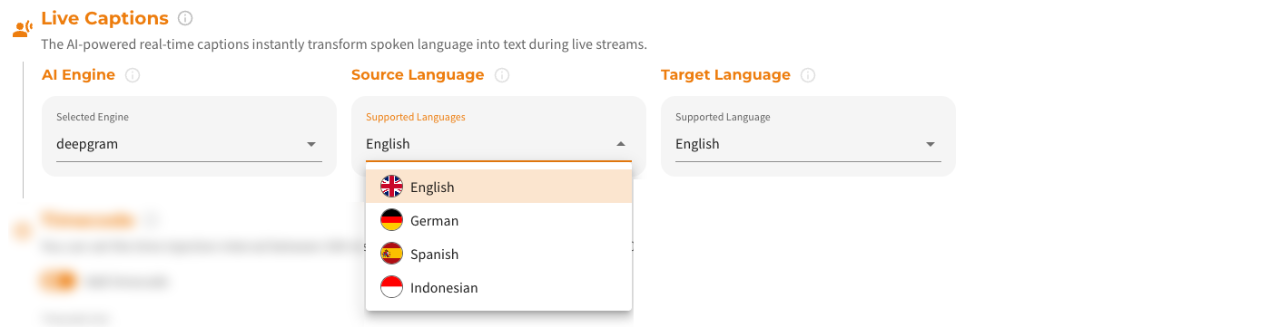
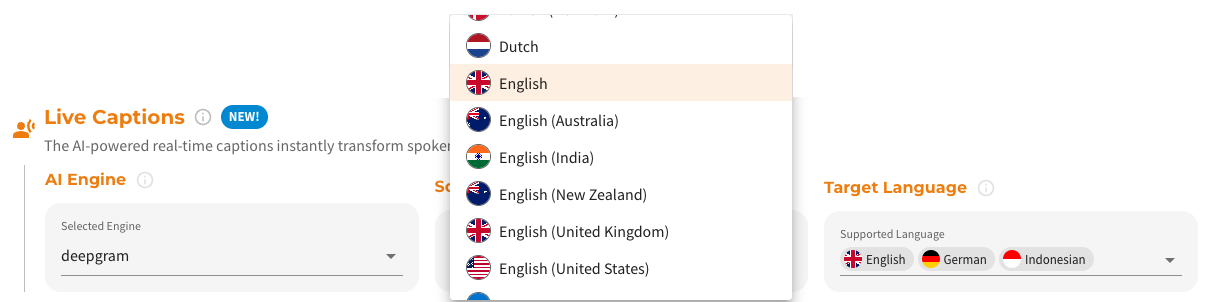
Adding Live Captions Dashboard

diff --git a/docs/dashboard/live_captions.md b/docs/dashboard/live_captions.md
@@ -4,3 +4,119 @@ title: Live Captions
 sidebar_label: Live Captions
 ---
 
+**Live Captions** convert spoken audio into readable text in real time. This feature improves accessibility and keeps viewers engaged, especially for streams with spoken content, in sound-off environments, or for users who are hard of hearing.
+
+Through the **nanoStream Cloud Dashboard**, you can easily set up, manage, and integrate Live Captions into your playback environment. This guide explains how to enable, configure, and use Live Captions from within the dashboard.
+
+:::warning Prerequisites
+To make use of **Live Captions**, it must be explicitly enabled for your organization. Activation may be subject to additional pricing or service terms.
+
+You can verify whether this feature is available by navigating to [dashboard.nanostream.cloud/organisation](https://dashboard.nanostream.cloud/organisation) in your dashboard.  
+In the **[Enabled Packages](./organization_overview#enabled-packages)** section, locate the entry for `Live Captions`. If it shows **Upgrade needed**, please contact us.
+
+![Screenshot: Enabled Packages](../assets/dashboard/enabled-packages.png)  
+
+To activate `Live Captions` or learn more about available plans, feel free to reach out via [nanocosmos.net/contact](https://www.nanocosmos.net/contact). We're happy to assist you in finding the best setup for your use case.
+:::
+
+:::info Live Caption Security Requirements
+Live captions are only available for **secure playback**. Therefore, by enabling `live captions`, you will also need to enable the `secure` feature. Please reach out to our sales team via [nanocosmos.net/contact](https://www.nanocosmos.net/contact) or by email at sales(at)nanocosmos.net if you have any questions. \
+To learn more about secure playback, visit the dedicated article [Secure Playback (H5Live)](/docs/cloud/security#secure-playback-h5live).
+:::
+
+## Add Live Captions to a New Stream
+
+When creating a new stream in the dashboard, live captions can be configured directly.
+
+![Screenshot: Adding live captions during stream creation](../assets/dashboard/create-add-captions.png)
+*Screenshot: Adding live captions during stream creation*
+
+First, select the desired live caption engine. Then specify the language of the audio source, which is the language spoken during the stream. You can then select one or more target languages in which the live captions should be displayed; engines that support translations enable simultaneous output in multiple languages.\
+Once the engine and languages are configured, save your settings. From that point, Live Captions will automatically activate as soon as the stream goes live, with the first lines typically appearing within **5–7 seconds**.
+
+:::info Learn more about Live Captions
+For a deeper understanding of Live Captions, including how they work, supported ASR engines, and language options, you can explore the following resources:
+
+- **How Live Captions Work**:  Detailed explanation of the real-time caption generation process and low-latency delivery. [Read more →](/docs/cloud/live_captions#how-it-works)
+
+- **Supported ASR Engines & Languages**: Overview of available engines (Deepgram, Whisper) and the full list of source and target languages, including regional variants. [Read more →](/docs/cloud/live_captions#asr-engines-and-languages)
+
+- **Managing Live Captions via API**: Learn how to control captions programmatically using the bintu API, including adding, editing, and removing captions. [Read more →](/docs/cloud/live_captions#managing-live-captions)
+:::
+
+
+## Overview of Live Captions Setup
+
+After creating a stream, you can access **Live Captions** playout and code snippets in several dashboard locations:
+
+- **Stream Overview:** [dashboard.nanostream.cloud/stream/YOUR-STREAM-ID](https://dashboard.nanostream.cloud/stream/YOUR-STREAM-ID)
+- **New Stream Instructions:** [dashboard.nanostream.cloud/stream/new/YOUR-STREAM-ID](https://dashboard.nanostream.cloud/stream/new/YOUR-STREAM-ID)
+- **Playout Overview:** [dashboard.nanostream.cloud/playout/YOUR-STREAM-ID](https://dashboard.nanostream.cloud/playout/YOUR-STREAM-ID)
+- **Webcaster Overview:** [dashboard.nanostream.cloud/webcaster/YOUR-STREAM-ID](https://dashboard.nanostream.cloud/webcaster/YOUR-STREAM-ID)
+
+In all these areas (except **New Stream Instructions**), you’ll find a dedicated **Live Captions tab**, which includes:
+
+- **Live Captions Player**.
+- **Language selector** below the player to switch between enabled target languages.
+- Current **engine**, **source language**, and **target language(s)**.
+- Options to **add**, **edit**, or **remove** captions.
+- **Secure Playback Token** with decoded informations.
+- **Captions Playout** URLs for each target language.
+
+![Screenshot: Live Captions Overview Tab](../assets/dashboard/live-captions-tab.png)
+*Screenshot: Live Captions Overview Tab*
+
+## Modify Live Captions Setup
+
+To modify existing Live Captions settings, open the **Live Captions tab** in any Stream Overview.
+
+:::warning Important
+Changes only take effect after **re-ingesting your stream**. If the stream is live, modifications apply **after stopping and restarting**.
+:::
+
+**Edit Live Captions**: Click **Edit**. Then update the **engine**, **source language**, or **target languages** and save your changes.
+
+![Screenshot: Edit Live Captions Settings](../assets/dashboard/edit-captions.png)
+*Screenshot: Editing Live Captions settings*
+
+**Remove Live Captions**: Click **Remove** and confirm the deletion.
+
+![Screenshot: Remove Live Captions](../assets/dashboard/remove-captions.png)
+*Screenshot: Removing Live Captions from a stream*
+
+## Live Captions Player & Code Snippets
+
+The **Live Captions player** can be embedded using an iframe. Code snippets are available in:
+
+- **Stream Overview → Code Snippets tab** ([dashboard.nanostream.cloud/stream/YOUR-STREAM-ID/code-snippets](https://dashboard.nanostream.cloud/stream/YOUR-STREAM-ID/code-snippets))
+- **New Stream Instructions → Access the Playout section** ([dashboard.nanostream.cloud/stream/new/YOUR-STREAM-ID](https://dashboard.nanostream.cloud/stream/new/YOUR-STREAM-ID))
+
+```js title="live_captions/iframe.html"
+<iframe
+    frameborder="0"
+    allowfullscreen
+    width="1280"
+    height="720"
+    src="https://bintu-nmessenger.autodevops-prod.nanostream.cloud/client/embed/nanoplayer.html?group.apiurl=GROUP_API&group.id=STREAM_ID&caption.channel=STREAM_ID-SOURCE_LANG-TARGET_LANG&caption.token=CAPTION_TOKEN&group.security.jwtoken=JWT_TOKEN">
+</iframe>
+```
+
+:::tip
+You can assemble your own player URL by combining these parameters with valid tokens. Use organization-wide tokens for logged-in users or generate new tokens for external viewers.
+
+**URL**: \
+https://bintu-nmessenger.autodevops-prod.nanostream.cloud/client/embed/nanoplayer.html  \
+?group.apiurl=GROUP_API \
+&group.id=STREAM_ID \
+&caption.channel=STREAM_ID-SOURCE_LANG-TARGET_LANG \
+&caption.token=CAPTION_TOKEN \
+&group.security.jwtoken=JWT_TOKEN
+
+| Parameter | Description |
+|-----------|-------------|
+| `group.apiurl` | Base API URL of the bintu instance |
+| `group.id` | Stream ID / Group ID |
+| `caption.channel` | Caption channel (includes stream ID + source language id + target language id) e.g. `STREAMNAME-en-en` |
+| `caption.token` | JWT token for accessing captions |
+| `group.security.jwtoken` | JWT token for secure playback |
+:::

diff --git a/docs/dashboard/start_streaming.md b/docs/dashboard/start_streaming.md
@@ -97,7 +97,7 @@ To enable that, you need to configure the **ASR engine**, **source language** (s
 To understand how Live Captions work end-to-end, including activation, configuration flows, engine selection, supported languages, and API integration, explore the full documentation:
 
 - [ASR Engines And Languages](/docs/cloud/live_captions#asr-engines-and-langauges): Learn which recognition engines are available, how they differ, and which languages they support.
-- [Manage Live Captions via Dashboard](/docs/dashboard//live_captions): Step-by-step instructions for enabling, editing, or removing captions in the nanoStream Cloud Dashboard.
+- [Manage Live Captions via Dashboard](/docs/dashboard/live_captions): Step-by-step instructions for enabling, editing, or removing captions in the nanoStream Cloud Dashboard.
 - [Integrate Live Captions programmatically](/docs/cloud/live_captions#api-integration): Add or modify caption settings using the bintu REST API with practical request examples.
 
 👉 Dive into the [Live Captions Docs](/docs/cloud/live_captions) for the complete feature guide.

diff --git a/docs/cloud/live_captions.md b/docs/cloud/live_captions.md
@@ -172,6 +172,9 @@ The workflow in the UI is designed to be simple and intuitive:
 3. Choose one or more **target languages** (caption output).
 4. Save your configuration.
 
+![Screenshot: Adding live captions to a new stream](../assets/dashboard/create-add-captions.png)
+*Screenshot: Adding live captions to a new stream*
+
 A detailed guide with screenshots on how to manage streams with live captions is available in the [Live Captions in the Dashboard](/docs/dashboard/live_captions) documentation.
 
 :::tip Accessing Live Captions Management  
